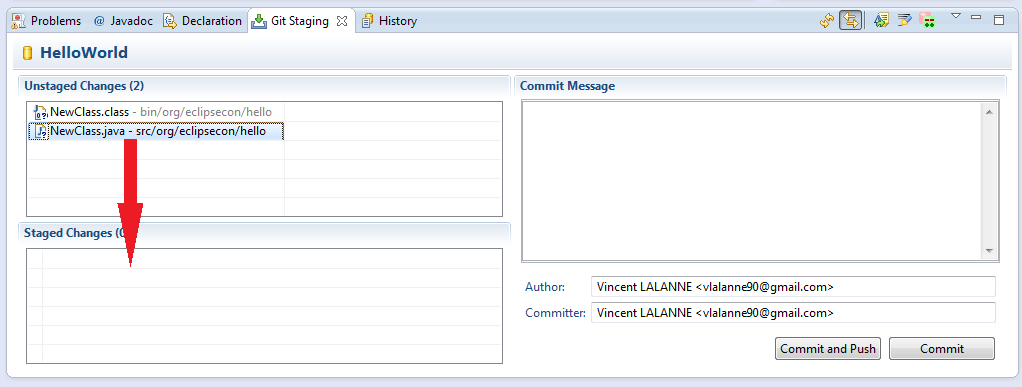
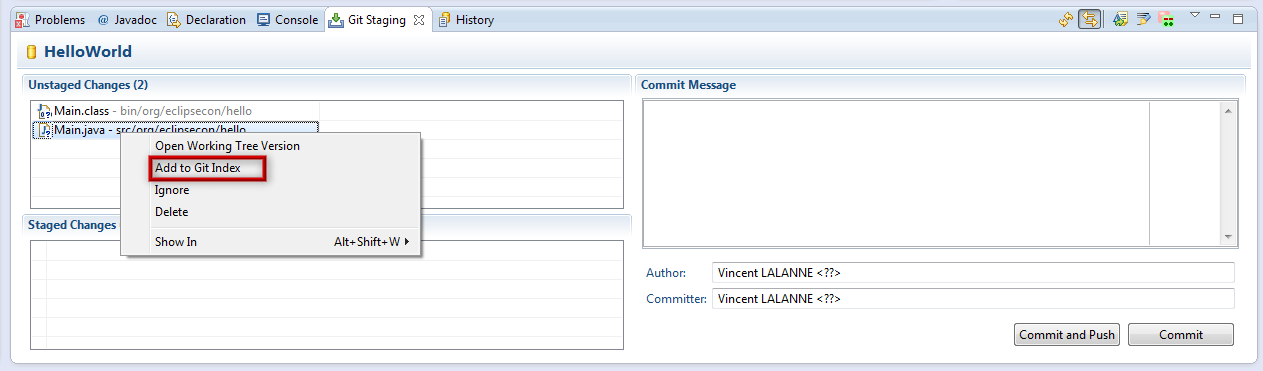
exo3

Changed region(s): [[0.0, 0.1186, 1.0, 1.0], [0.0, 0.0, 1.0, 0.0889], [0.4853, 0.7116, 1.0, 0.8302]]

diff --git a/exo3.html b/exo3.html
@@ -21,49 +21,81 @@
 		<section id="exercises">
 			<h1>Basic Operations</h1>
 			<ol>
-				<li><a href="#exo1">A First Commit</a></li>
-				<li><a href="#exo2">Removing a file</a></li>
-				<li><a href="#exo3">Moving a file</a></li>
+				<li><a href="#exo1">A first commit</a></li>
+				<li><a href="#exo2">A commit without staging</a></li>
+				<li><a href="#exo3">Removing and moving files</a></li>
 			</ol>
 			<article>
-				<h2 id="exo1">A First Commit</h2>
+				<h2 id="exo1">A first commit</h2>
 
 				<div>
 					<ul class="exercises">
-						<li>Create a new file Java files</li>
-						<li>Add .java file to the staged changes (drag&drop it in the
-							Git Staging View) <br /> <img src="exo3/add.PNG"
-							alt="add new file" />
-						</li>
-						<li>Ignore the .class file <code>file.class > Ignore</code> <br />
+						<li>Download, unzip and import <a
+							href="exo3/HelloWorld-3.zip">HelloWorld-3.zip</a>.<br> The
+							project contains an already initialized <i>Git</i> repository and
+							<i>Eclipse Java</i> project <br /> <img
+							src="exo3/NewProject.PNG" alt="new project" /></li>
+						<li>Open the <i>Git Staging view</i> in the <i>Git
+								perspective</i></li>
+						<li>Add the Main.java file to the staged changes <code>Main.java
+								&gt; Add to Git Index</code> <br /> <img src="exo3/add.PNG"
+							alt="add java file" />
 							<p class="text-info">
-								<strong>Note</strong><br> you can create a .gitignore file
-								in the project root and add the line
+								<strong>Note</strong><br /> You can remove and add files from
+								the <i>Staged Changes</i> through drag and drop.
+							</p>
+						</li>
+						<li>Ignore the Main.class file <code>Main.class &gt;
+								Ignore</code> <br> <img src="exo3/ignore.PNG"
+							alt="ignore class file" /><br />
+							<p class="text-info">
+								<strong>Note</strong><br /> you can create a .gitignore file in
+								the project root and add the line
 								<code>/bin</code>
 								to ignore all binary files
 							</p>
 						</li>
+						<li>Add the new .gitignore file</li>
 						<li>Enter a commit message</li>
-						<li>Press 'Commit'</li>
+						<li>Press <code>Commit</code><br /> <img
+							src="exo3/commit.PNG" alt="ignore class file" /></li>
 					</ul>
 				</div>
 			</article>
 
 			<article>
-				<h2 id="exo2">Removing a file</h2>
+				<h2 id="exo2">A commit without staging</h2>
 
 				<div>
 					<ul class="exercises">
-						<li>//TODO</li>
+						<li>Create a new <i>Java</i> file name NewClass. <code>org.eclipsecon.hello
+								&gt; New &gt; Class</code> <br> <img src="exo3/newFile.PNG"
+							alt="create NewClass" /></li>
+						<li>Open the commit GUI <code>Explorer Item &gt; Team
+								&gt; Commit</code></li>
+						<li>Select the files you want to commit</li>
+						<li>Enter a commit message and commit you changes<br> <img
+							src="exo3/commit2.PNG" alt="a second commit" /></li>
 					</ul>
 				</div>
 			</article>
 			<article>
-				<h2 id="exo3">Moving a file</h2>
+				<h2 id="exo3">Removing and moving files</h2>
 
 				<div>
 					<ul class="exercises">
-						<li>//TODO</li>
+						<li>As it is empty and has no point, delete the NewClass.java
+							file <code>NewClass.java &gt; Delete &gt; Yes</code>
+						</li>
+						<li>When creating the project, the read-me was wrongly name
+							RAEDME.txt. Rename it to README.txt <code>RAEDME.txt &gt;
+								Refactor &gt; Rename &gt; README.txt &gt; Yes</code>
+						</li>
+						<li>Open the <i>Git Staging view</i> in the <i>Git
+								perspective</i>. <i>Eclipse</i> has already added the changes to the
+							<i>Staged Changes</i> <img src="exo3/moveRemove.PNG"
+							alt="a move and a remove" /></li>
+						<li>Commit these changes</li>
 					</ul>
 				</div>
 			</article>
@@ -76,7 +108,8 @@
 	<script src="javascripts/lib/jquery.min.js" type="text/javascript"></script>
 	<script src="javascripts/lib/bootstrap.min.js" type="text/javascript"></script>
 	<script src="javascripts/main.js" type="text/javascript"></script>
-    <script src="javascripts/lib/prettify/prettify.js" type="text/javascript"></script>
+	<script src="javascripts/lib/prettify/prettify.js"
+		type="text/javascript"></script>
 
 </body>
 </html>

diff --git a/exo2.html b/exo2.html
@@ -32,7 +32,6 @@
                 <ul class="exercises">
                     <li>
                         Download and unzip the <a href="exo2/HelloWorld.zip">HelloWorld.zip</a>.<br>
-
                         <p class="text-info">
                             <strong>Note</strong><br>
                             Create your own Project if you prefer.
